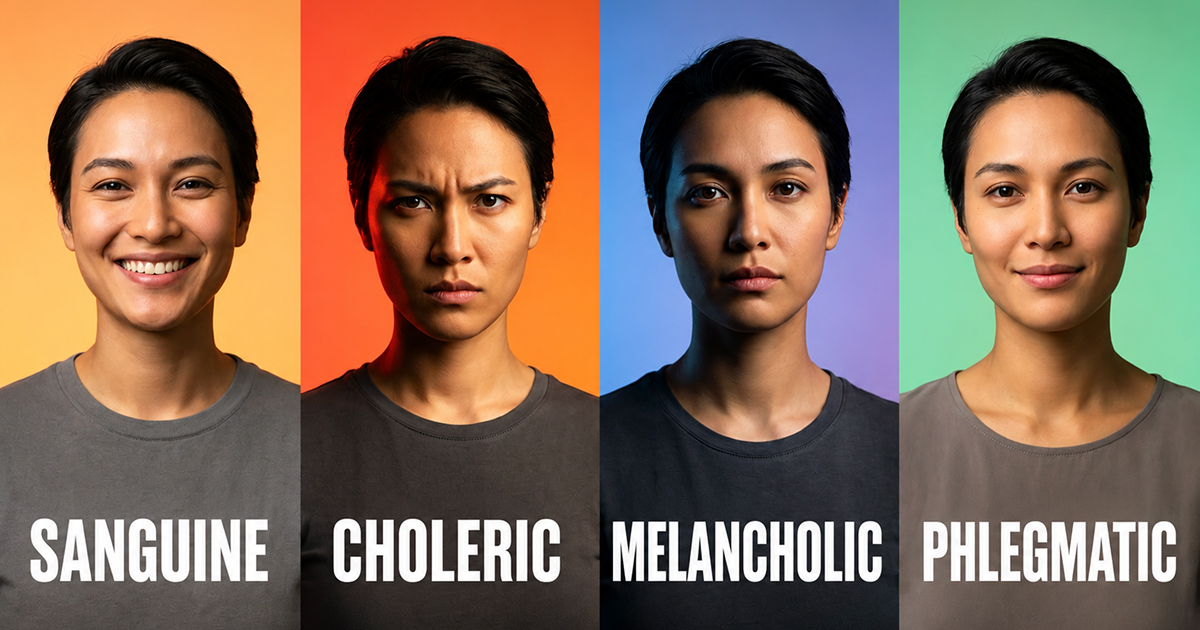
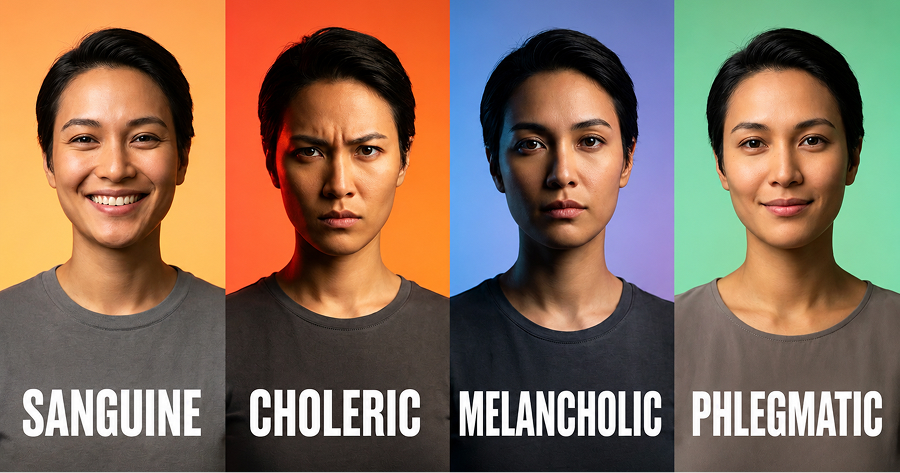
feat(seo): atualiza imagem og snipet.jpg

diff --git a/index.html b/index.html
@@ -13,8 +13,8 @@
     <meta property="og:title" content="Les 4 Tempéraments • Découvre ton type de personnalité">
     <meta property="og:description" content="Test anonyme de 30 questions pour découvrir ton tempérament dominant. Environ 8 minutes.">
     <meta property="og:image" content="https://4temperament.vercel.app/imagem/snipet.jpg">
-    <meta property="og:image:width" content="1200">
-    <meta property="og:image:height" content="630">
+    <meta property="og:image:width" content="900">
+    <meta property="og:image:height" content="473">
     <meta property="og:image:alt" content="Les 4 Tempéraments — quiz de personnalité">
     <meta property="og:locale" content="fr_FR">
     <meta property="og:site_name" content="Les 4 Tempéraments">

diff --git a/js/data.js b/js/data.js
@@ -5,8 +5,8 @@ const SITE_CONFIG = {
   ogImage: 'https://4temperament.vercel.app/imagem/snipet.jpg',
   title: 'Les 4 Tempéraments • Découvre ton type de personnalité',
   description: 'Test anonyme de 30 questions pour découvrir ton tempérament dominant. Environ 8 minutes.',
-  ogImageWidth: 1200,
-  ogImageHeight: 630
+  ogImageWidth: 900,
+  ogImageHeight: 473
 };
 
 // État global du questionnaire